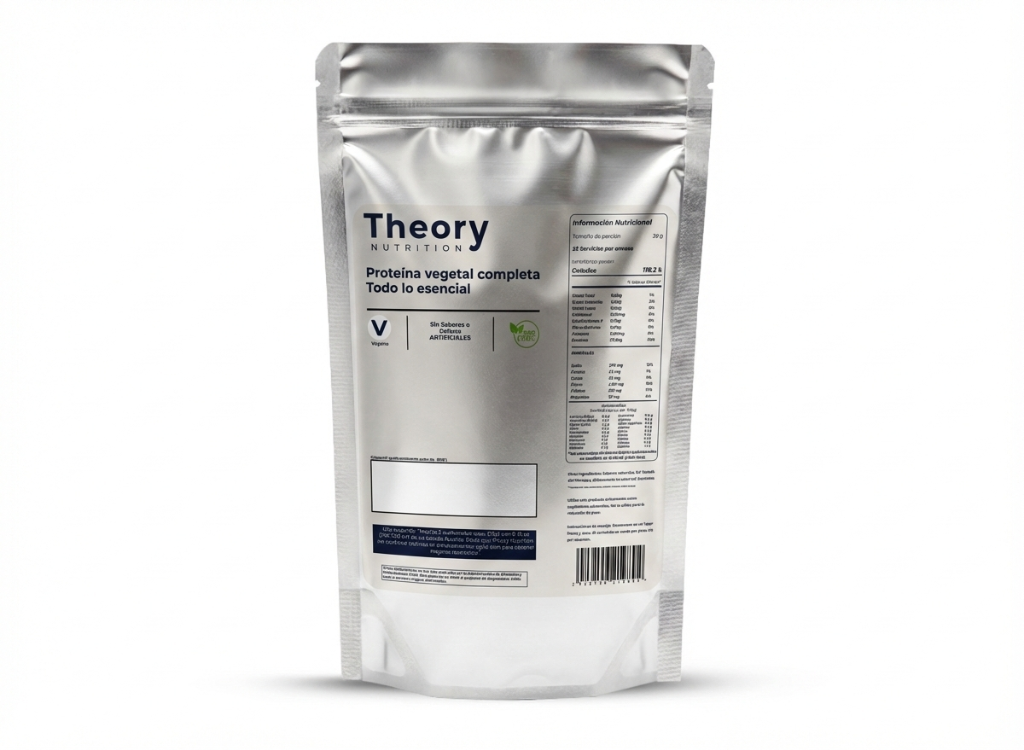
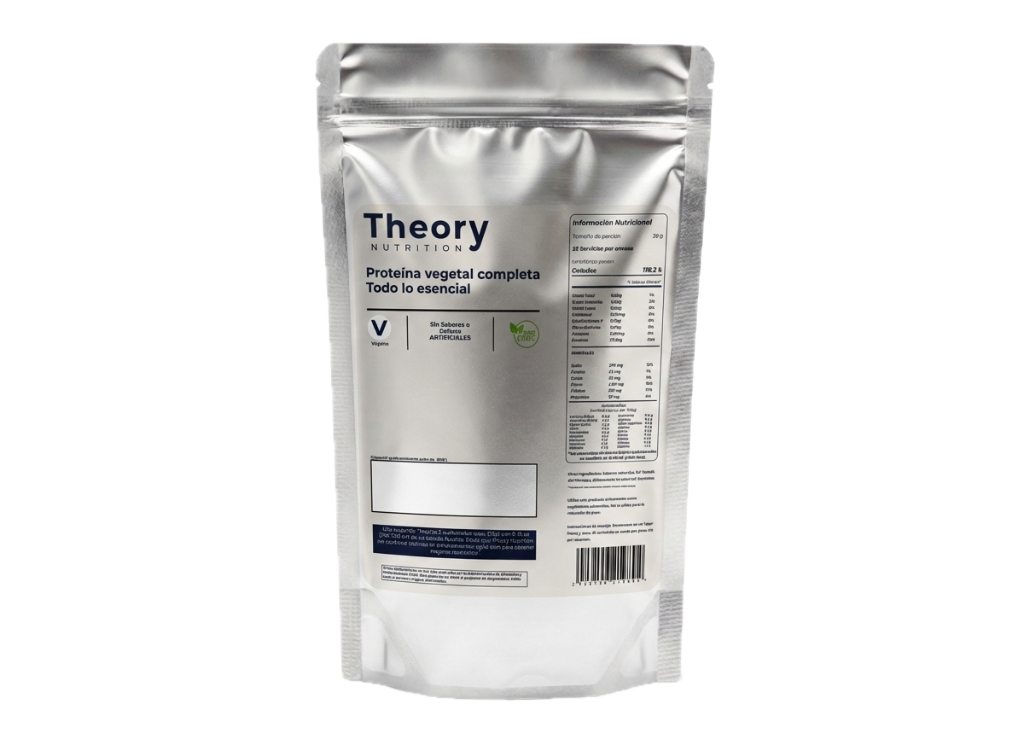
Update images: transparent backgrounds and png format

Changed region(s): [[0.2812, 0.8893, 0.4062, 0.9507], [0.5938, 0.8893, 0.7188, 0.9507], [0.625, 0.0307, 0.6562, 0.0613]]

diff --git a/index.html b/index.html
@@ -660,7 +660,7 @@
                             <a href="https://www.instagram.com/olimpo.fitness_ricaurte/" target="_blank"
                                 rel="noopener noreferrer" class="stockist-logo-link">
                                 <div class="stockist-logo">
-                                    <img src="olimpo_logo.jpg" alt="Olimpo">
+                                    <img src="olimpo_logo.png" alt="Olimpo">
                                     <div class="logo-overlay">
                                         <span>Ver Instagram</span>
                                     </div>
